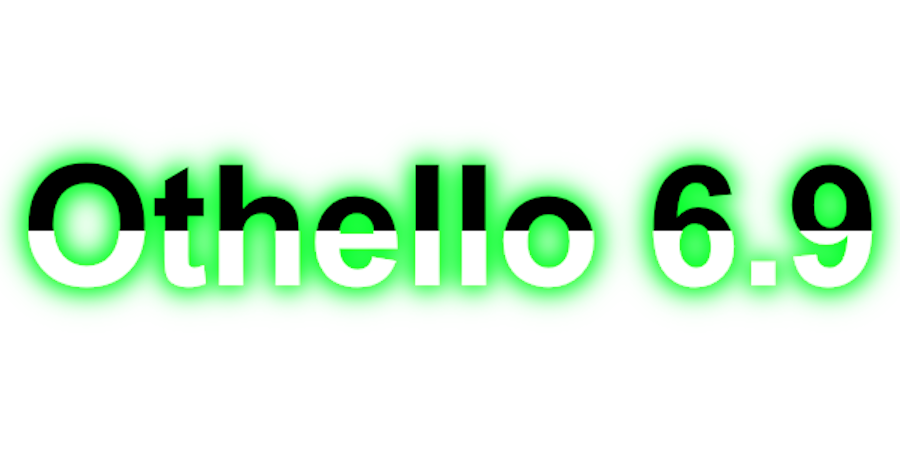
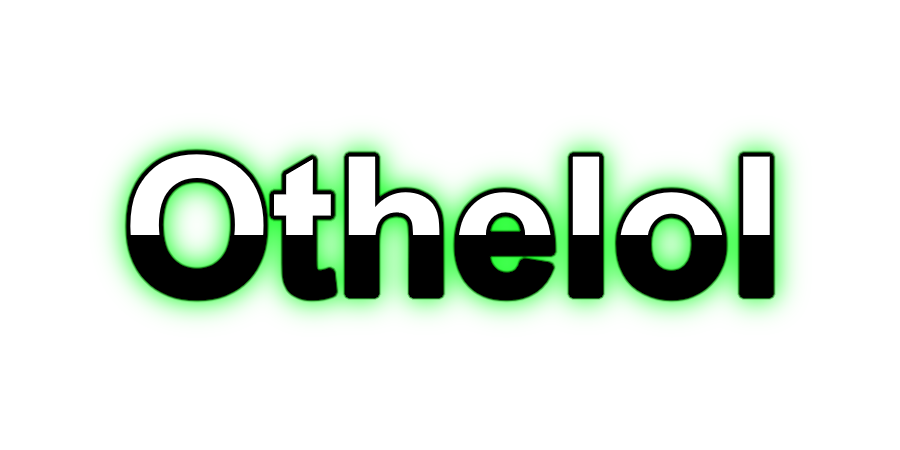
Day 12: Finishing up the game mechanics

diff --git a/game.py b/game.py
@@ -1,15 +1,17 @@
 import pygame
 import sys
 from sys import exit
-from random import randint
+from random import randint, choice
 import time
 
 class Game:
     def __init__(self):
         super().__init__()
         global event, player_turn, board, devil_mode
+
         self.turn = 0
         self.turn_display = arial_font_40.render(f'Turn: {self.turn}',False,'Black')
+
         if devil_mode: self.turn_display_rect = self.turn_display.get_rect(center = (200,500))
         else: self.turn_display_rect = self.turn_display.get_rect(center = (200,400))
 
@@ -36,7 +38,10 @@ class Game:
         screen.blit(self.turn_side,self.turn_side_rect)
 
     def display_piece_num(self):
-        self.piece_num_display = arial_font_40.render(f'Black pieces: {self.get_pieces()}',False,'Black')
+        if player_turn:
+            self.piece_num_display = arial_font_40.render(f'Black pieces: {self.get_pieces()}',False,'Black')
+        else:
+            self.piece_num_display = arial_font_40.render(f'White pieces: {self.get_opp_pieces()}',False,'White')
         screen.blit(self.piece_num_display,self.piece_num_rect)
 
     def get_pieces(self):
@@ -71,11 +76,50 @@ class Game:
         self.display_piece_num()
         self.display_side()
 
-class Opponent(pygame.sprite.Sprite):
+class Gamble:
     def __init__(self):
-        super().__init__()
-        pass
+        self.generated_num = choice([1,2,3])
 
+        self.one = pygame.image.load('graphics/one.png').convert_alpha()
+        self.two = pygame.image.load('graphics/two.png').convert_alpha()
+        self.three = pygame.image.load('graphics/three.png').convert_alpha()
+
+        self.one_rect = self.one.get_rect(center = (500,600))
+        self.two_rect = self.two.get_rect(center = (800,600))
+        self.three_rect = self.three.get_rect(center = (1100,600))
+
+        self.font = pygame.font.Font('font/Arialn.ttf',120)
+        self.text = self.font.render('Gamble',False,'Red')
+        self.text_rect = self.text.get_rect(center = (800,300))
+
+        self.bg = pygame.image.load('graphics/gray_bg.png').convert_alpha()
+
+    def get_rect(self,num):
+        if num == 1: return self.one_rect
+        elif num == 2: return self.two_rect
+        elif num == 3: return self.three_rect
+
+    def get_num(self):
+        return self.generated_num
+
+    def player_input(self, input):
+        global gamble_active
+        if input == self.generated_num: 
+            gamble_active = False
+            return True
+        else: 
+            gamble_active = False
+            return False
+
+    def generate_num(self):
+        self.generated_num = choice([1,2,3])
+
+    def display(self):
+        screen.blit(self.bg,self.bg.get_rect(topleft = (0,0)))
+        screen.blit(self.text,self.text_rect)
+        screen.blit(self.one,self.one_rect)
+        screen.blit(self.two,self.two_rect)
+        screen.blit(self.three,self.three_rect)
 
 class Tile:
     def __init__(self, x, y, is_occupied, is_player):
@@ -102,7 +146,6 @@ class Tile:
     def player_turn(self):
         if devil_mode: self.image = pygame.image.load('graphics/tile_b_2.png').convert()
         else: self.image = pygame.image.load('graphics/tile_b.png').convert()
-        self.rect = self.image.get_rect(center = (350+100*self.x, 900-(self.y*100)))
         self.player_piece = True
         if not self.occupied:
             self.occupied = True
@@ -110,7 +153,6 @@ class Tile:
     def opp_turn(self):
         if devil_mode: self.image = pygame.image.load('graphics/tile_w_2.png').convert()
         else: self.image = pygame.image.load('graphics/tile_w.png').convert()
-        self.rect = self.image.get_rect(center = (350+100*self.x, 900-(self.y*100)))
         self.player_piece = False
         if not self.occupied:
             self.occupied = True
@@ -150,20 +192,15 @@ class Tile:
         
 
 def circle_animation(circle_list):
-    for circle_rect in circle_list:
+    for circle_rect in circle_list: 
         circle_rect.x += 10
-        if circle_rect.x > 2000:
-            circle_list.remove(circle_rect)
-            
+        if circle_rect.x > 2000: circle_list.remove(circle_rect)
         screen.blit(circle_surf,circle_rect)
 
 def circle_animation_2(circle_list):
-    for circle_rect in circle_list:
+    for circle_rect in circle_list: 
         circle_rect.x -= 10
-
-        if circle_rect.x < -600:
-            circle_list.remove(circle_rect)
-
+        if circle_rect.x < -600: circle_list.remove(circle_rect)
         screen.blit(circle_surf_2,circle_rect)
 
 def rules_text_display(rule_list):
@@ -203,7 +240,6 @@ def placeable(target_index, obj_group):
        Having even ONE DIRECTION marked as TRUE will allow the tile to be OCCUPIED
 
     '''
-
     def upward(i,g,direction=True,count=1):
         if i+1 <= 63:
             if not g[i+1].is_occupied() or g[i+1].is_player() and count == 1: # FIRST CHECK. If EMPTY or is PLAYER, FALSE
@@ -643,9 +679,37 @@ def progress_line():
     for x in range(p_w):
         screen.blit(prog_w,prog_w.get_rect(midtop = (1400, 50+(p_b*8)+x*8)))
 
+def gamble_result(correct):
+    global player_turn, extend_turn
+    time = 1500
+    exit_game = False
+    font = pygame.font.Font('font/Arialn.ttf',120)
+    if correct:
+        extend_turn = 1
+        msg = font.render('Gamble Won',False,'Green')
+    else:
+        player_turn = not player_turn
+        msg = font.render('Gamble Lost',False,'Red')
+
+    while not exit_game:
+        for event in pygame.event.get():
+            if event.type == pygame.QUIT:
+                pygame.quit()
+                quit()
+        
+        screen.blit(msg,msg.get_rect(center = (800,450)))
+        pygame.display.update()
+
+        passed_time = clock.tick(60)
+        time -= passed_time
+        if time <= 0:
+            exit_game = True
+            
+        
+
 pygame.init()
 screen = pygame.display.set_mode((1600,900))
-pygame.display.set_caption('Othello 6.9')
+pygame.display.set_caption('Othelol')
 clock = pygame.time.Clock()
 
 # Program states 
@@ -654,6 +718,7 @@ menu = True
 rules_menu = False
 difficulty = False
 devil_mode = False
+extend_turn = 0
 game_active = False
 gamble_active = False
 player_turn = True
@@ -721,6 +786,11 @@ skip_rect = skip_surf.get_rect(center = (120,190))
 
 gamble_surf = pygame.image.load('graphics/gamble.png').convert()
 gamble_rect = gamble_surf.get_rect(center = (120,310))
+
+# GAMBLE MODE VARIABLES
+
+
+gamble = Gamble()
 
 # Score screen variables
 
@@ -814,27 +884,36 @@ while True:
                     
 
         elif game_active:
-
             if event.type == pygame.MOUSEBUTTONDOWN:
-                if surrender_rect.collidepoint(event.pos):
-                    game_active = False
-                    score_screen = True
-                elif skip_rect.collidepoint(event.pos):
-                    player_turn = not player_turn
-                    game.finish_turn()
-                elif gamble_rect.collidepoint(event.pos):
-                    gamble_active = True
-                    pass
+                if gamble_active:
+                    if gamble.get_rect(1).collidepoint(event.pos):
+                        gamble_result(gamble.player_input(1))
+                    elif gamble.get_rect(2).collidepoint(event.pos):
+                        gamble_result(gamble.player_input(2))
+                    elif gamble.get_rect(3).collidepoint(event.pos):
+                        gamble_result(gamble.player_input(3))
                 else:
-                    for x in range(0,64): # Cycles through board group using INDEX
-                        if board[x].get_rect().collidepoint(event.pos) and not board[x].is_occupied() and player_turn:
-                            if placeable(x,board):
-                                game.finish_turn()
-                                player_turn = not player_turn
-                        elif board[x].get_rect().collidepoint(event.pos) and not board[x].is_occupied() and not player_turn:
-                            if placeable_opp(x,board):
-                                game.finish_turn()
-                                player_turn = not player_turn
+                    if surrender_rect.collidepoint(event.pos):
+                        game_active = False
+                        score_screen = True
+                    elif skip_rect.collidepoint(event.pos):
+                        player_turn = not player_turn
+                        game.finish_turn()
+                    elif gamble_rect.collidepoint(event.pos):
+                        gamble_active = True
+                        gamble.generate_num()
+                    else:
+                        for x in range(0,64): # Cycles through board group using INDEX
+                            if board[x].get_rect().collidepoint(event.pos) and not board[x].is_occupied() and player_turn:
+                                if placeable(x,board):
+                                    game.finish_turn()
+                                    if extend_turn > 0: extend_turn -= 1
+                                    else: player_turn = not player_turn
+                            elif board[x].get_rect().collidepoint(event.pos) and not board[x].is_occupied() and not player_turn:
+                                if placeable_opp(x,board):
+                                    game.finish_turn()
+                                    if extend_turn > 0: extend_turn -= 1
+                                    else: player_turn = not player_turn
 
             if game.get_total_occupied() == 64 or game.get_pieces() == 0 or game.get_opp_pieces() == 0:
                 game_active = False
@@ -889,12 +968,12 @@ while True:
         screen.blit(skip_surf,skip_rect)
         if devil_mode:
             screen.blit(gamble_surf,gamble_rect)
-        
         game.update()
         for x in board:
             x.update()
-
         progress_line()
+        if gamble_active:
+            gamble.display()
 
     if score_screen:
         if game.get_pieces() == game.get_opp_pieces():
